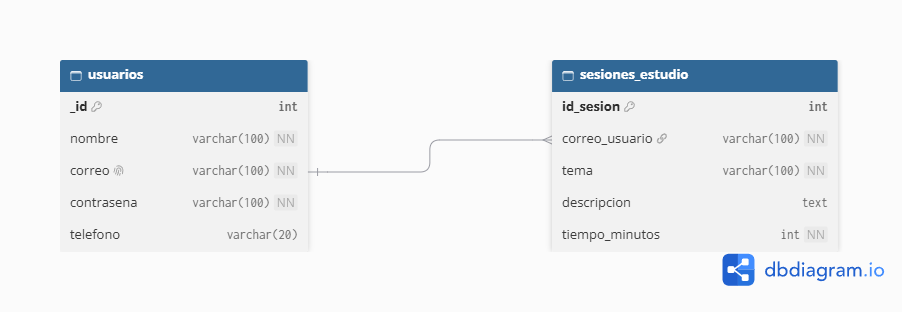
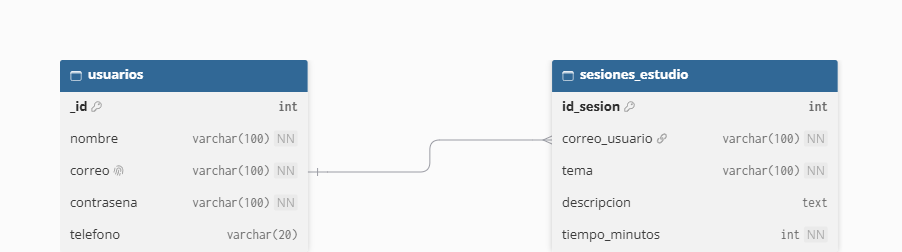
feat(seguridad): se Implemento la proteccion de captura de pantalla mediante las FLAG_SECURE para las ventanas que contienen datos sensibles como (InicioDeSesion, RegistroDeUsuarios, CambiarClave)

diff --git a/app/src/main/java/com/example/salvadordesemestres/vistas/vistas/RegistroDeUsuarios.java b/app/src/main/java/com/example/salvadordesemestres/vistas/vistas/RegistroDeUsuarios.java
@@ -36,6 +36,7 @@ public class RegistroDeUsuarios extends AppCompatActivity {
         super.onCreate(savedInstanceState);
         EdgeToEdge.enable(this);
         setContentView(R.layout.activity_registro_de_usuarios);
+        getWindow().setFlags(android.view.WindowManager.LayoutParams.FLAG_SECURE, android.view.WindowManager.LayoutParams.FLAG_SECURE);
         ViewCompat.setOnApplyWindowInsetsListener(findViewById(R.id.main), (v, insets) -> {
             Insets systemBars = insets.getInsets(WindowInsetsCompat.Type.systemBars());
             v.setPadding(systemBars.left, systemBars.top, systemBars.right, systemBars.bottom);

diff --git a/app/src/main/java/com/example/salvadordesemestres/vistas/vistas/CambiarClave.java b/app/src/main/java/com/example/salvadordesemestres/vistas/vistas/CambiarClave.java
@@ -31,6 +31,7 @@ public class CambiarClave extends AppCompatActivity {
         super.onCreate(savedInstanceState);
         EdgeToEdge.enable(this);
         setContentView(R.layout.activity_cambiar_clave);
+        getWindow().setFlags(android.view.WindowManager.LayoutParams.FLAG_SECURE, android.view.WindowManager.LayoutParams.FLAG_SECURE);
         ViewCompat.setOnApplyWindowInsetsListener(findViewById(R.id.main), (v, insets) -> {
             Insets systemBars = insets.getInsets(WindowInsetsCompat.Type.systemBars());
             v.setPadding(systemBars.left, systemBars.top, systemBars.right, systemBars.bottom);

diff --git a/app/src/main/java/com/example/salvadordesemestres/vistas/vistas/InicioDeSesion.java b/app/src/main/java/com/example/salvadordesemestres/vistas/vistas/InicioDeSesion.java
@@ -32,6 +32,7 @@ public class InicioDeSesion extends AppCompatActivity{
         super.onCreate(savedInstanceState);
         EdgeToEdge.enable(this);
         setContentView(R.layout.activity_inicio_de_sesion);
+        getWindow().setFlags(android.view.WindowManager.LayoutParams.FLAG_SECURE, android.view.WindowManager.LayoutParams.FLAG_SECURE);
 
         ViewCompat.setOnApplyWindowInsetsListener(findViewById(R.id.main), (v, insets) -> {
             Insets systemBars = insets.getInsets(WindowInsetsCompat.Type.systemBars());

diff --git a/README.md b/README.md
@@ -18,7 +18,9 @@ Una aplicación móvil para Android creada para ayudar a los estudiantes a organ
 
 ---
 
-##  ¿Qué hace la aplicación?
+
+
+## ¿Qué hace la aplicación?
 
 *   **Crear cuenta y Login:** Puedes registrarte y tu cuenta quedará guardada en tu teléfono. La app recordará tu sesión abierta para que no tengas que entrar tu clave cada vez.
 *   **Estudiar:** Tienes un cronómetro donde puedes elegir cuánto tiempo quieres estudiar (15, 25 o 45 minutos). Puedes pausarlo el tiempo o detenerlo en cualquier momento.
@@ -42,6 +44,7 @@ Una aplicación móvil para Android creada para ayudar a los estudiantes a organ
 ## Arquitectura del Proyecto
 
 
+## Arquitectura del Proyecto
 
 ```text
 app/
@@ -50,4 +53,5 @@ app/
            ├── java/com/example/salvadordesemestres/vistas/
            │    ├── db/        # Clases de Base de Datos (UsuarioContract, UsuarioDbHelper)
            │    └── vistas/    # Vistas e Interfaz (Activities, DatosGlobales)
-           └── [AndroidManifest.xml]
+           └── AndroidManifest.xml
+```
